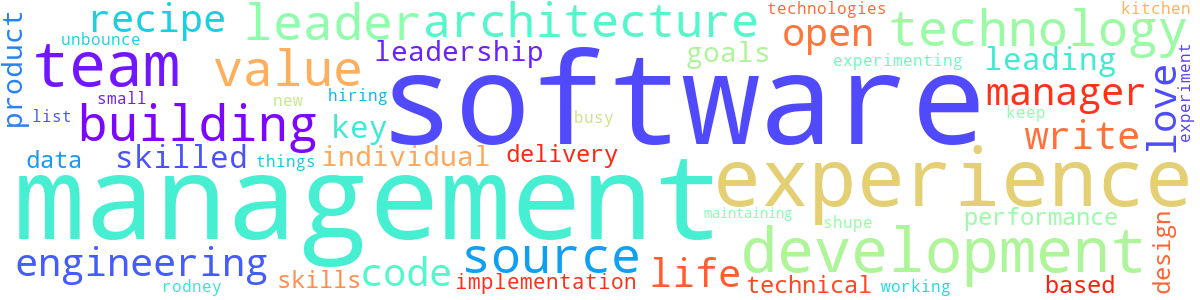
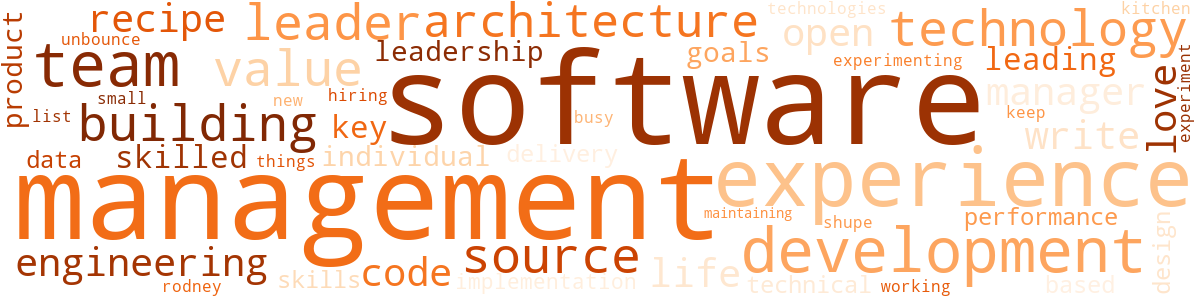
updated colors

Changed region(s): [[0.0, 0.0, 1.0, 0.99], [0.185, 0.0, 0.2158, 0.03]]

diff --git a/scripts/gen_wordcloud.py b/scripts/gen_wordcloud.py
@@ -21,12 +21,12 @@ stopwords.update(["currently", "using", "here", "set", "at", "project", "click",
 wordcloud = WordCloud(width = 1200, height = 300,
 				background_color='white',
 				#colormap='Set2',
-				colormap='rainbow',
+				#colormap='rainbow',
+				colormap='Oranges_r',
 				min_font_size = 9,
 				random_state=1,
                 max_words=50,
 				stopwords = stopwords).generate(comment_words)
 #change the color setting
-#wordcloud.recolor(color_func = grey_color_func)
 
 wordcloud.to_file("../images/bannerwc.png")
